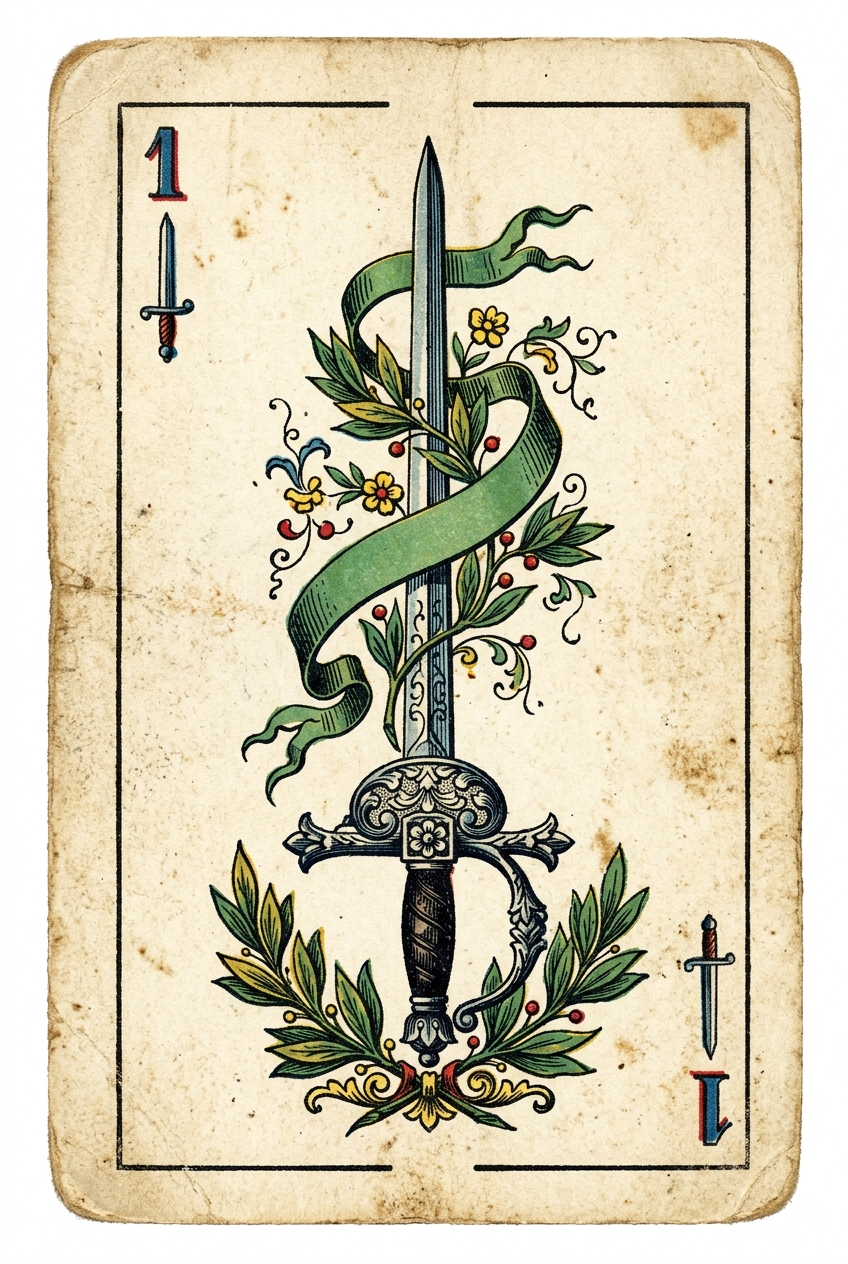
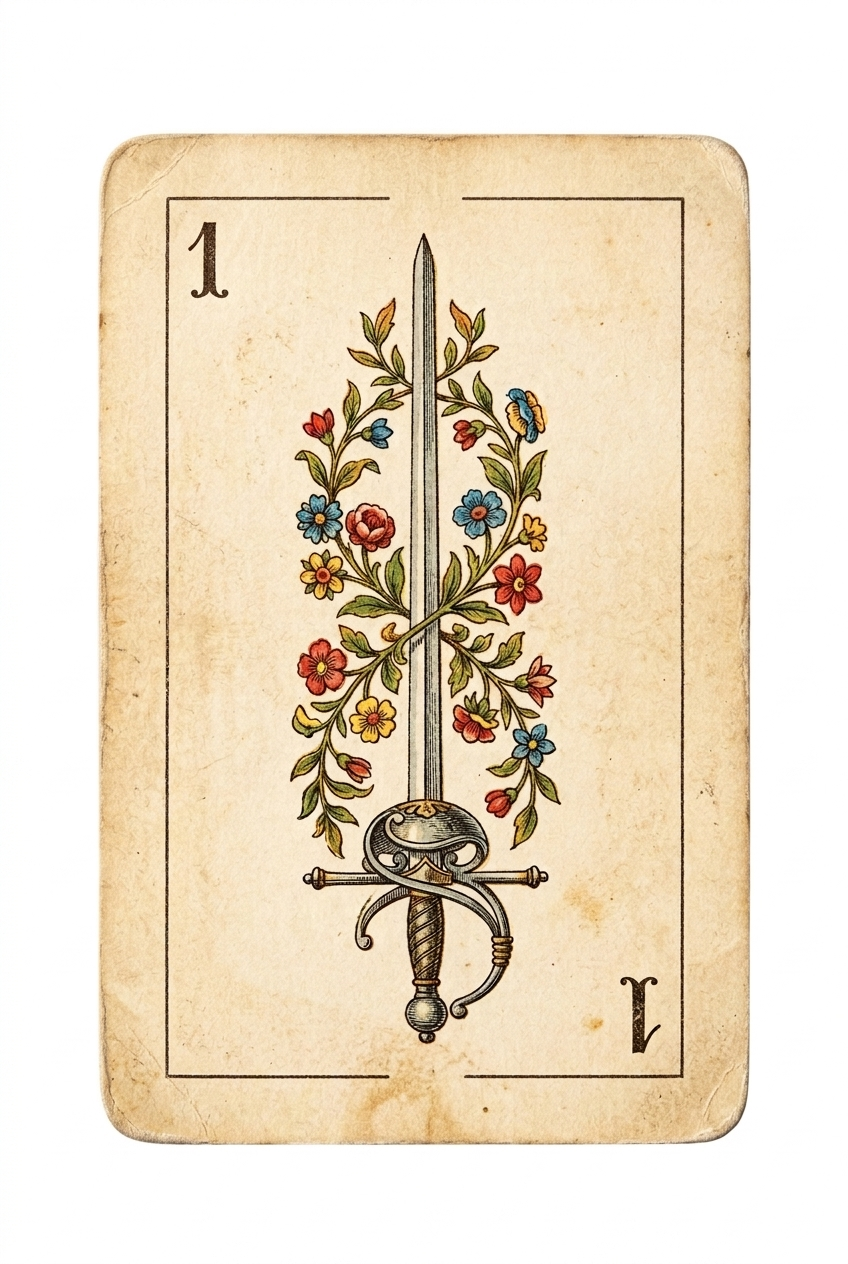
style: Esquinas limpias con solo los numeros sin iconos secundarios en cartas

diff --git a/src/components/CardView.tsx b/src/components/CardView.tsx
@@ -170,17 +170,14 @@ export const CardView: React.FC<CardViewProps> = ({
       ) : (
         /* FALLBACK: Renderizado vectorial tradicional artesanal */
         <div className="w-full h-full border border-[#8f7556]/60 rounded-lg flex flex-col justify-between p-1 relative overflow-hidden bg-transparent">
-          {/* Esquina Superior Izquierda: Número + Símbolo del palo */}
-          <div className="flex items-center gap-0.5 leading-none z-10">
+          {/* Esquina Superior Izquierda: SOLO el número (sin iconos) */}
+          <div className="flex items-center leading-none z-10 pl-0.5 pt-0.5">
             <span
               className="font-display font-black text-sm sm:text-lg tracking-tighter"
               style={{ color: theme.text }}
             >
               {card.number}
             </span>
-            <div className="scale-75 sm:scale-90 origin-left">
-              <SuitSymbol suit={card.suit} size={15} />
-            </div>
           </div>
 
           {/* CENTRO ARTÍSTICO DEL NAIPE (Basado fielmente en el patrón tradicional Fournier) */}
@@ -188,17 +185,14 @@ export const CardView: React.FC<CardViewProps> = ({
             <CardCenterLayout number={card.number} suit={card.suit} />
           </div>
 
-          {/* Esquina Inferior Derecha (Invertida): Número + Símbolo del palo */}
-          <div className="flex items-center gap-0.5 leading-none self-end rotate-180 z-10">
+          {/* Esquina Inferior Derecha (Invertida): SOLO el número (sin iconos) */}
+          <div className="flex items-center leading-none self-end rotate-180 z-10 pr-0.5 pb-0.5">
             <span
               className="font-display font-black text-sm sm:text-lg tracking-tighter"
               style={{ color: theme.text }}
             >
               {card.number}
             </span>
-            <div className="scale-75 sm:scale-90 origin-left">
-              <SuitSymbol suit={card.suit} size={15} />
-            </div>
           </div>
         </div>
       )}
